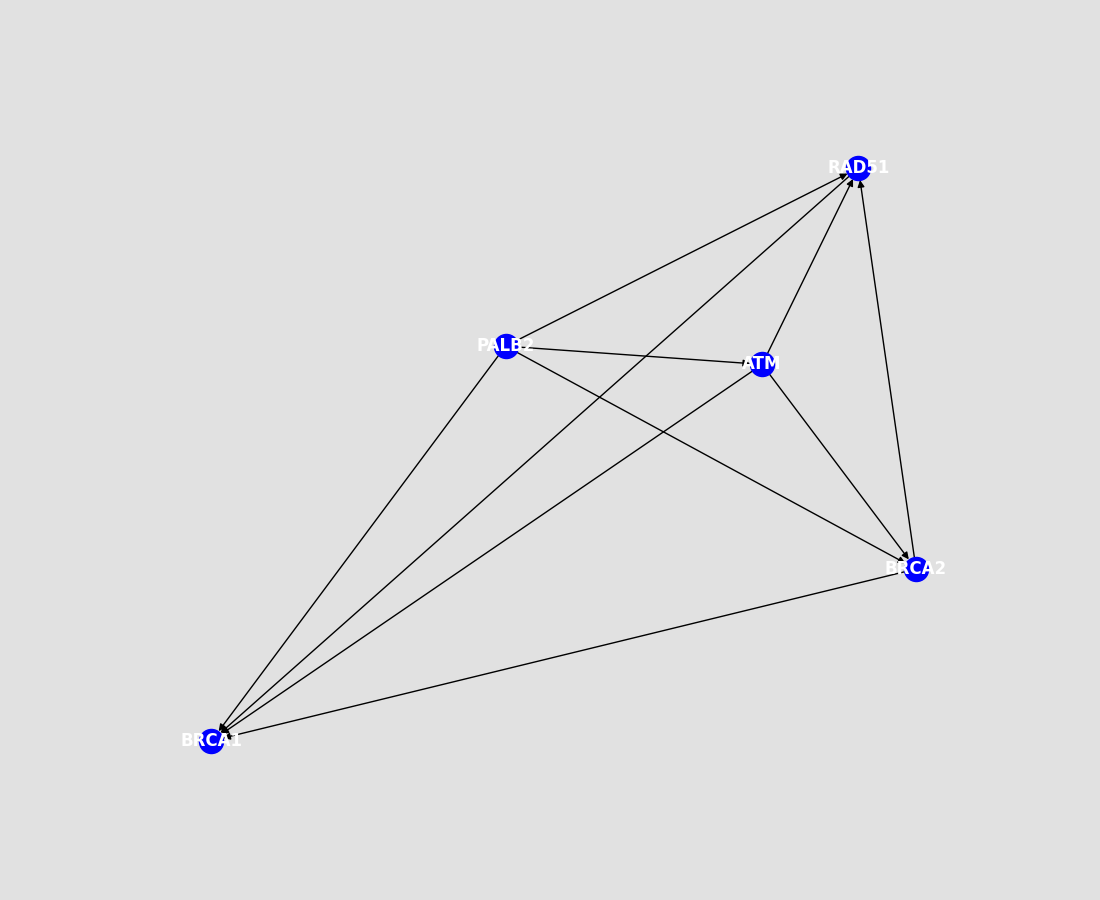
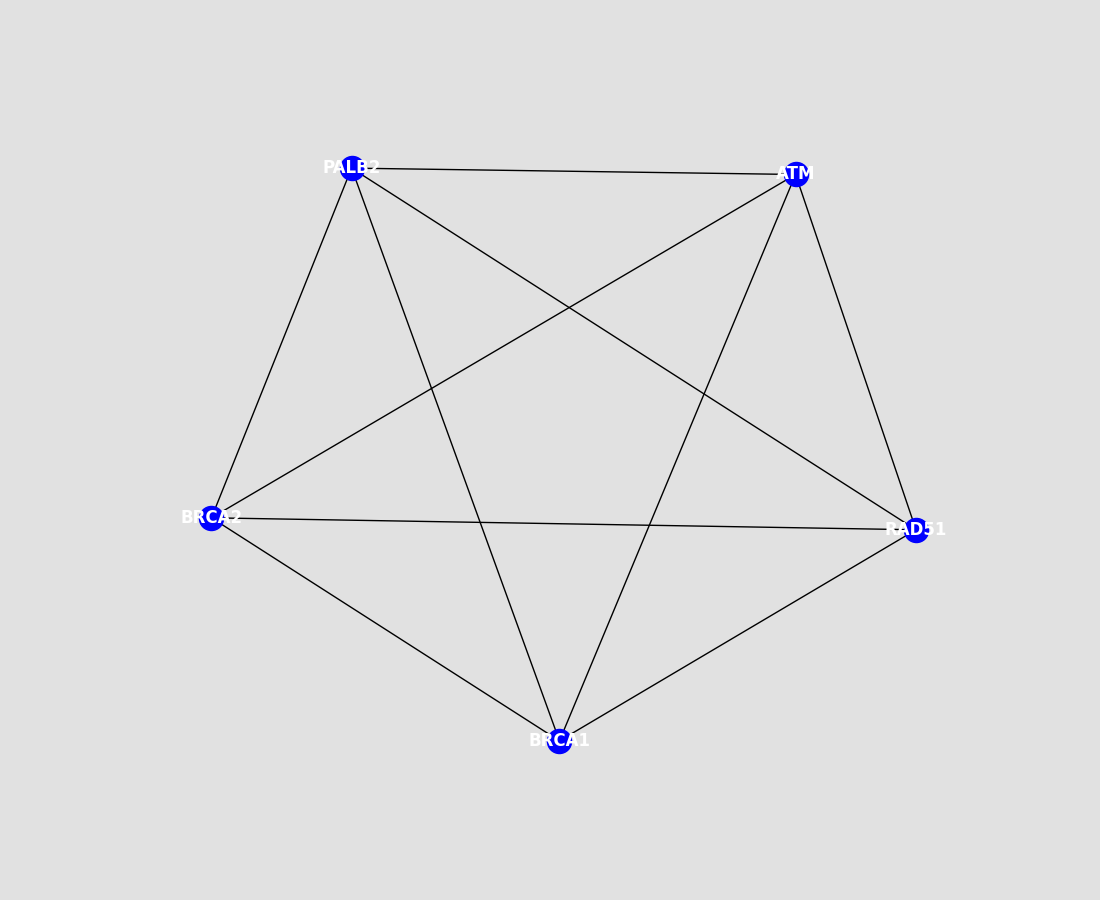
Adding docstring and more comments

diff --git a/TheCodeS.py b/TheCodeS.py
@@ -1,64 +1,61 @@
-# Importing all the required libraries
+#Import all the necessary libraries 
 import requests
 import networkx as nx
 import pandas as pd
 import numpy as np
 import matplotlib.pyplot as plt
 
+def fetch_protein_interaction_graph(proteins):
+    """
+    Fetches the protein interaction graph from the STRING-DB API.
+    
+    Args:
+        proteins (list): List of protein names.
+        
+    Returns:
+        nx.Graph: Protein interaction graph.
+    """
+    url = 'https://string-db.org/api/tsv/network?'
+    params = {
+        'identifiers': '%0d'.join(proteins),
+        'species': 9606,
+        'required_score': 400,
+        'caller_identity': 'final_project.py'
+    }
+    response = requests.get(url, params=params)
+    data = [line.split('\t') for line in response.content.decode('utf-8').split('\n') if line and line[0] != '#']
+    df = pd.DataFrame(data[1:-1], columns=data[0])
+    interactions = df[['preferredName_A', 'preferredName_B', 'score']]
+    G = nx.Graph(name='Protein Interaction Graph')
+    interactions = np.array(interactions)
+    for i in range(len(interactions)):
+        interaction = interactions[i]
+        a = interaction[0]  # first node
+        b = interaction[1]  # second node
+        w = float(interaction[2])  # score as weighted edge where high scores = low weight
+        G.add_weighted_edges_from([(a, b, w)])
+    return G
+
+
 # Define the list of proteins
 proteins = ['BRCA1', 'BRCA2', 'ATM', 'RAD51', 'PALB2']
 
-# Define the URL for the STRING-DB API
-url = 'https://string-db.org/api/tsv/network?'
+# Fetch the protein interaction graph using the defined function
+G = fetch_protein_interaction_graph(proteins)
 
-# Define the parameters for the API request
-params = {
-    'identifiers': '%0d'.join(proteins),
-    'species': 9606,
-    'required_score': 400,
-    'caller_identity': 'TheCodeS.py'
-}
+def plot_interaction_graph(G):
+    """
+    Plots the protein interaction graph.
+    
+    Args:
+        G (nx.Graph): Protein interaction graph.
+    """
+    pos = nx.spring_layout(G)
+    plt.figure(figsize=(11, 9), facecolor=[0.7, 0.7, 0.7, 0.4])
+    nx.draw_networkx(G, pos=pos, with_labels=True, font_color='white', font_weight='bold', node_color='blue', edge_color='black')
+    bc = nx.betweenness_centrality(G)
+    plt.axis('off')
+    plt.savefig('output.png')
 
-# Send the API request and get the response
-response = requests.get(url, params=params)
-
-# Process the response data
-data = [line.split('\t') for line in response.content.decode('utf-8').split('\n') if line and line[0] != '#']
-
-# Create a DataFrame from the response data
-df = pd.DataFrame(data[1:-1], columns= data[0])
-
-# Extract the relevant columns for interactions
-interactions = df[['preferredName_A', 'preferredName_B', 'score']]
-
-# Create an empty graph object
-G = nx.DiGraph(name='Protein Interaction Graph')
-
-# Convert the interactions to a numpy array for processing
-interactions = np.array(interactions)
-
-
-# Iterate over the interactions and add edges to the graph
-for i in range(len(interactions)):
-    interaction = interactions[i]
-    a = interaction[0] # first node
-    b = interaction[1] # second node
-    w = float(interaction[2]) # score as weighted edge where high scores = low weight
-    G.add_weighted_edges_from([(a,b,w)])
-
-
-
-# Draw the network graph
-pos = nx.spring_layout(G)
-plt.figure(figsize=(11,9),facecolor=[0.7,0.7,0.7,0.4])
-nx.draw_networkx(G, pos=pos, with_labels=True,font_color='white',font_weight='bold',node_color='blue',edge_color='black')
-
-# Compute betweenness centrality for the nodes
-bc = nx.betweenness_centrality(G)
-def rescale(l,newmin,newmax):
-    arr = list(l)
-    return [(x-min(arr))/(max(arr)-min(arr))*(newmax-newmin)+newmin for x in arr]
-plt.axis('off')
-
-# Save the plot as an image
-plt.savefig('output.png')
+# Plot the interaction graph using the defined function
+plot_interaction_graph(G)
